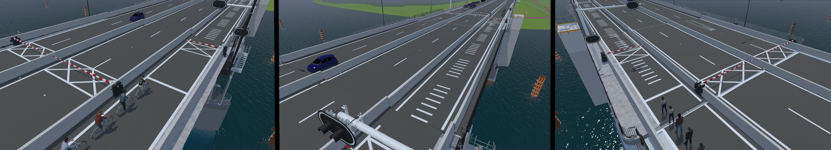
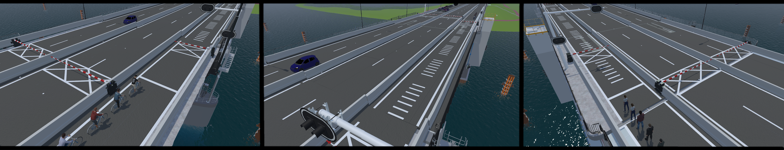
v005
optimized async img loading

diff --git a/index.html b/index.html
@@ -30,7 +30,7 @@
   </head>
   <body oncontextmenu='return false;'></body>
   <script>
-
+    async function full_exp_async_wrapper(){
 /*
     blue
     Rgb 45,0,200
@@ -70,7 +70,7 @@
     const exp_conditions = ['systematic', 'free']
     const search_condition = jsPsych.randomization.sampleWithoutReplacement(exp_conditions, 1)[0]
 
-    let exp_version = '0_0_4'
+    let exp_version = '0_0_5'
     const exp_id = 'exp_5_v'+exp_version
     console.log("Exp id: ", exp_id)
     
@@ -174,6 +174,11 @@
     const danger_event_numbers = ["01","02", "03","04", "06","07", "08","10", "11","12", "13",] // (length = 11)  /// 01-13 except 9 and 5
     const safe_event_numbers   = ["15","16", "17","18", "19","20", "21","22", "23","24"]       //  (length = 10)1  5-24
 
+    const safe_trials = jsPsych.randomization.sampleWithoutReplacement(safe_event_numbers, n_safe_trials)
+    const danger_trials = jsPsych.randomization.sampleWithoutReplacement(danger_event_numbers, n_danger_trials)
+
+    const shuffled_event_numbers = jsPsych.randomization.shuffle([...safe_trials, ...danger_trials])
+
     const danger_practice_event_number = '05'
     const safe_practice_event_number   = '14'
     const img_sizes_raw = {"01 Links": [732, 400],"01 Midden": [718, 400],"01 Rechts": [734, 400],"01 Totaal": [788, 150],"02 Links": [728, 400],"02 Midden": [716, 400],"02 Rechts": [729, 400],"02 Totaal": [783, 150],"03 Links": [727, 400],"03 Midden": [721, 400],"03 Rechts": [734, 400],"03 Totaal": [786, 150],"04 Links": [728, 400],"04 Midden": [720, 400],"04 Rechts": [733, 400],"04 Totaal": [779, 150],"05 Links": [735, 400],"05 Midden": [720, 400],"05 Rechts": [737, 400],"05 Totaal": [831, 150],"06 Links": [729, 400],"06 Midden": [718, 400],"06 Rechts": [735, 400],"06 Totaal": [780, 150],"07 Links": [725, 400],"07 Midden": [717, 400],"07 Rechts": [736, 400],"07 Totaal": [784, 150],"08 Links": [726, 400],"08 Midden": [719, 400],"08 Rechts": [731, 400],"08 Totaal": [778, 150],"10 Links": [728, 400],"10 Midden": [716, 400],"10 Rechts": [733, 400],"10 Totaal": [782, 150],"11 Links": [728, 400],"11 Midden": [719, 400],"11 Rechts": [733, 400],"11 Totaal": [779, 150],"12 Links": [727, 400],"12 Midden": [715, 400],"12 Rechts": [734, 400],"12 Totaal": [783, 150],"13 Links": [727, 400],"13 Midden": [718, 400],"13 Rechts": [734, 400],"13 Totaal": [782, 150],"14 Links": [728, 400],"14 Midden": [718, 400],"14 Rechts": [731, 400],"14 Totaal": [784, 150],"15 Links": [730, 400],"15 Midden": [716, 400],"15 Rechts": [729, 400],"15 Totaal": [778, 150],"16 Links": [735, 400],"16 Midden": [717, 400],"16 Rechts": [737, 400],"16 Totaal": [778, 150],"17 Links": [729, 400],"17 Midden": [717, 400],"17 Rechts": [729, 400],"17 Totaal": [783, 150],"18 Links": [729, 400],"18 Midden": [718, 400],"18 Rechts": [737, 400],"18 Totaal": [783, 150],"19 Links": [730, 400],"19 Midden": [718, 400],"19 Rechts": [733, 400],"19 Totaal": [780, 150],"20 Links": [730, 400],"20 Midden": [717, 400],"20 Rechts": [732, 400],"20 Totaal": [786, 150],"21 Links": [727, 400],"21 Midden": [718, 400],"21 Rechts": [733, 400],"21 Totaal": [781, 150],"22 Links": [733, 400],"22 Midden": [720, 400],"22 Rechts": [733, 400],"22 Totaal": [783, 150],"23 Links": [730, 400],"23 Midden": [716, 400],"23 Rechts": [735, 400],"23 Totaal": [785, 150],"24 Links": [731, 400],"24 Midden": [716, 400],"24 Rechts": [733, 400],"24 Totaal": [783, 150],"25 Links": [728, 400],"25 Midden": [715, 400],"25 Rechts": [731, 400],"25 Totaal": [784, 150],"26 Links": [727, 400],"26 Midden": [715, 400],"26 Rechts": [733, 400],"26 Totaal": [784, 150],"27 Links": [730, 400],"27 Midden": [715, 400],"27 Rechts": [731, 400],"27 Totaal": [784, 150],"28 Links": [731, 400],"28 Midden": [715, 400],"28 Rechts": [732, 400],"28 Totaal": [784, 150]}
@@ -183,20 +188,49 @@
     // 26 - blue:   "Rijbaan"         driving lane         (systematic searching mode)
     // 27 - green:  "Fiets-voetpad"   bike and foot path   (systematic searching mode)
     // 28 - yellow: "Randen"          edges                (systematic searching mode)
-    function load_img_fabric (img_name) {
+
+
+    async function load_img_fabric (img_name) {
         // let img_path = 'imgs/main_imgs/' + event_number  + ' ' + view + '.png' 
         let img_path = 'imgs/main_imgs/' + img_name + '.png'
 
         const img = new Image();
         img.src = img_path
         img.onload = ()=>{console.log('loaded: '+img_name )}
+        await img.decode();
+
+        
+        console.log( `${img_name} -  width: ${ img.width }, height: ${ img.height }` );
+        
+        const fabric_img =  new fabric.Image(img, {
+            left: 0,
+            top: 0,
+            width: img.width, //img_sizes_raw[img_name][0], // (view == 'Totaal' ? 781 : 730),  //
+            height: img.height, //img_sizes_raw[img_name][1], // (view == 'Totaal' ? 150 : 400),
+            image_label:  img_name
+        });
+
+        return fabric_img
+    }
+    
+
+
+    function load_img_fabric_new (img_name) {
+        // let img_path = 'imgs/main_imgs/' + event_number  + ' ' + view + '.png' 
+        let img_path = 'imgs/main_imgs/' + img_name + '.png'
+
+        const img = new Image();
+        img.src = img_path
+
+        img.onload = ()=>{console.log('loaded: '+img_name )}
+        console.log( `${img_name} -  width: ${ img.width }, height: ${ img.height }` );
         
         const fabric_img = new fabric.Image(img, {
             left: 0,
             top: 0,
             width: img_sizes_raw[img_name][0], // (view == 'Totaal' ? 781 : 730),  //
-            height:  img_sizes_raw[img_name][1], // (view == 'Totaal' ? 150 : 400),
-            image_label:  img_path.split('/')[2]
+            height: img_sizes_raw[img_name][1], // (view == 'Totaal' ? 150 : 400),
+            image_label:  img_name
         });
 
         return fabric_img
@@ -216,17 +250,18 @@
         // let event_number = (i<10? '0':'') + i
         
         for (let view of ['Links', 'Midden', 'Rechts', 'Totaal']){
-            event_views[view] = load_img_fabric (event_number  + ' ' + view)                
+            event_views[view] = await load_img_fabric (event_number  + ' ' + view)   
         }
         bridge_events[event_number] = event_views
     }
+
 
     const preload_imgs_with_call = {
         type: jsPsychCallFunction,
         func: function(){
             let save_start_timestamp = performance.now()
-            setTimeout(() =>{
-                for (let event_number of [...safe_event_numbers, ...danger_event_numbers] ){
+            setTimeout(async () =>{
+                for (let event_number of shuffled_event_numbers ){
                     // 09 is removed (it was similar to 08)
                     let event_views = {}
                     
@@ -237,7 +272,7 @@
                     } 
                     
                     for (let view of ['Links', 'Midden', 'Rechts', 'Totaal']){
-                        event_views[view] = load_img_fabric (event_number  + ' ' + view)                
+                        event_views[view] = await load_img_fabric (event_number  + ' ' + view)
                     }
                     bridge_events[event_number] = event_views
                     
@@ -1177,10 +1212,7 @@
 
 
     // Make timeline (this procedure is the same for systematic and free searchers)
-    let safe_trials = jsPsych.randomization.sampleWithoutReplacement(safe_event_numbers, n_safe_trials)
-    let danger_trials = jsPsych.randomization.sampleWithoutReplacement(danger_event_numbers, n_danger_trials)
 
-    let shuffled_event_numbers = jsPsych.randomization.shuffle([...safe_trials, ...danger_trials])
 
     if (search_condition == 'free') {  // uninstructed search
         timeline.push(
@@ -1265,6 +1297,11 @@
         return array.reduce((x, y) => x + y,  0);
     }
     
+
+
+
+}
+full_exp_async_wrapper()
   </script>
 </html>
 
